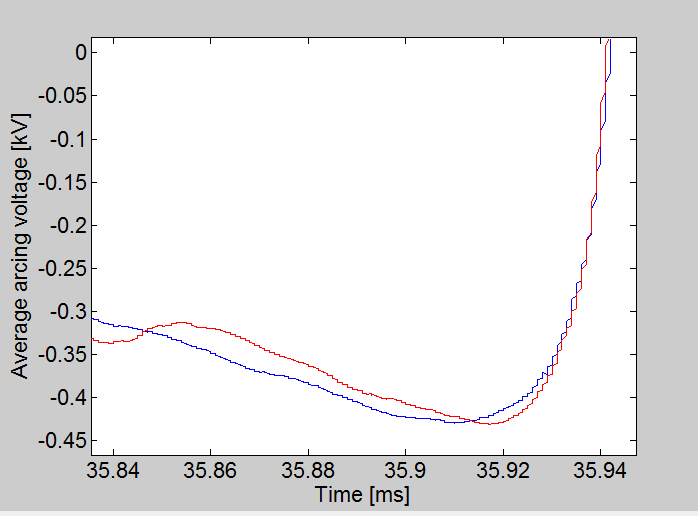
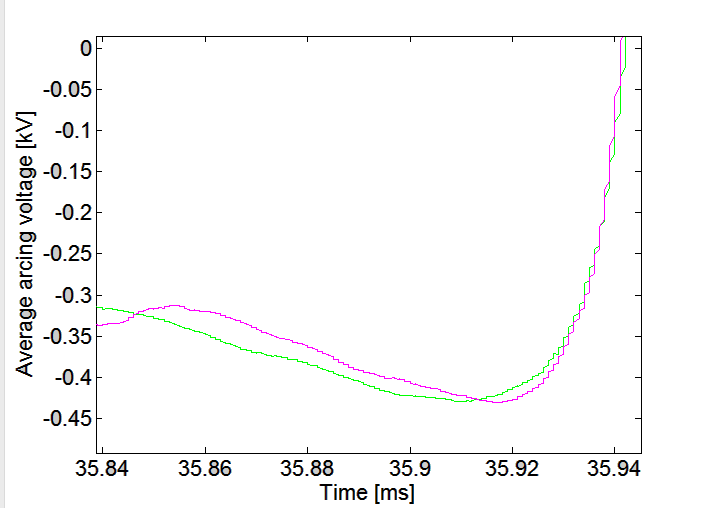
førsteutkast 75 mm arcing voltage

diff --git a/Dokument/masteroppgave.tex b/Dokument/masteroppgave.tex
@@ -776,9 +776,9 @@ In figure \ref{fig:results880AgeoC}, the total interruption success rate for the
 
 \subsubsection{Comparison of test results for geometry \textbf{c} and geometry \textbf{d}}
 
-As stated in section \ref{sec:testSwitchandContact} geometry \textbf{c} is going to be compared to a previously tested geometry, denoted \textbf{d}. Geometry \textbf{d} was tested by Nina Sasaki Aanensen and the results was published in the article: "Air flow investigation for a medium voltage load break switch" \cite{bib:AFIMVLBA} (In this article geometry \textbf{d} was denoted as geometry \textbf{a}). However, it seems beneficial to the reader to compare the previously tested geometry \textbf{d} to geometry \textit{c} in the same figure. Therefore, a comparison of the total interruption success rate for geometry \textbf{c} to the previously tested geometry \textbf{d} are shown in figure \ref{fig:compgeoCandDAllcurrents}.
+As stated in section \ref{sec:testSwitchandContact} geometry \textbf{c} is going to be compared to a previously tested geometry, denoted \textbf{d}. Geometry \textbf{d} was tested by Nina Sasaki Aanensen and the results was published in the article: "Air flow investigation for a medium voltage load break switch" \cite{bib:AFIMVLBA} (In that article geometry \textbf{d} was denoted as geometry \textbf{a}). However, it seems beneficial to the reader to present the results from the previously tested geometry \textbf{d} to geometry \textbf{c} in the same figure. Therefore, a comparison of the total interruption success rate for geometry \textbf{c} to the previously tested geometry \textbf{d} are shown in figure \ref{fig:compgeoCandDAllcurrents}.
 
-Figure \ref{fig:compgeoCandDAllcurrents} illustrates that geometry \textbf{d} performed better than geometry \textbf{c} for the 630 A interruption tests. Geometry \textbf{d} interrupted all the tests at 0.3 bar over-pressure, while geometry \textbf{c} had a 100 \% interruption success rate at 0.4 bar over-pressure at 630 A. Geometry \textbf{c} had none successful interruptions at 0.25 bar over-pressure, while geometry \textbf{d} had 0 \% success rate at 0.2 bar over-pressure. The 50 \% interruption success rate for geometry \textbf{c} was at an over-pressure of approximately 0.28 bar over-pressure. Geometry \textbf{d} had a 50 \% interruption success rate at approximately 0.26 bar over-pressure.
+Figure \ref{fig:compgeoCandDAllcurrents} shows that geometry \textbf{d} performed overall better than geometry \textbf{c} for the 630 A interruption tests. Geometry \textbf{d} interrupted all the tests at 0.3 bar over-pressure, while geometry \textbf{c} had a 100 \% interruption success rate at 0.4 bar over-pressure at 630 A. Geometry \textbf{c} had none successful interruptions at 0.25 bar over-pressure, while geometry \textbf{d} had a 0 \% interruption success rate at 0.2 bar over-pressure. The 50 \% interruption success rate for geometry \textbf{c} was at an over-pressure of approximately 0.28 bar over-pressure. Geometry \textbf{d} had a 50 \% interruption success rate at approximately 0.26 bar over-pressure.
 
 For the 880 A current interruption test, geometry \textbf{c} was considerably better than geometry \textbf{d}. Geometry \textbf{c} interrupted all the tests at 0.5 bar over-pressure, which was the same pressure level where geometry \textbf{d} failed all the interruptions. Geometry \textbf{d} had a 100 \% interruption success rate at 0.6 bar over-pressure, and a 50 \% interruption success rate at about 0.55 bar over-pressure. Where geometry \textbf{c} failed all the interruptions at 0.35 bar over-pressure and had a 50 \% interruption success rate at approximately 0.425 bar.
 
@@ -790,9 +790,9 @@ For the 880 A current interruption test, geometry \textbf{c} was considerably be
 
 \newpage
 \subsection{Arcing voltage}
-For geometry \textbf{c} the arcing voltage was monitored during the 630 A interruption tests at an over-pressure of 0.3 bar to see if a difference in arcing voltage could be observed between successful and unsuccessful interruptions. Two test series where conducted, one where the second CZ occurred when the pin's position was at approximately x=75 mm. The data collected for the second test where collected when the pin was inside the nozzle at approximately x=18 mm. The data presented in this section has been processed in matlab, where the arcing voltage has been smoothed to remove measuring noise and aligned so that the CZ occurs at the same time for all the collected data in a test. 
+For geometry \textbf{c} the arcing voltage was monitored and stored during the 630 A interruption tests at an over-pressure of 0.3 bar to see if a difference in arcing voltage could be observed between successful and unsuccessful interruptions. Two test series where conducted, one where the second CZ occurred when the pin's position was at approximately x=75 mm and one where performed when the pin was inside the nozzle at approximately x=18 mm. The data presented in this section has been processed in matlab, where the arcing voltage has been smoothed to remove measuring noise and aligned so that the CZ occurs at the same time for all the collected arcing voltages in a test series. 
 
-For the test series with a second CZ at x=75 mm, nine interruption tests where performed in total. Five tests had a thermal re-ignition, and four tests successfully interrupted at the CZ. As described in section \ref{sec:staticArcVoltage} the length of the arc influences the arcing voltage, therefore interruption attempts that was not in the area of interest (x=75 $\pm$ 3 mm) were discard. Even though many tests where conducted, five successful interruptions in the region of interests was not obtained. This resulted in that only four successful interruptions where included in the data for the x=75 mm arcing voltage test.
+For the test series with a second CZ at x=75 mm, nine interruption tests where performed in total. Five tests had a thermal re-ignition, and four tests successfully interrupted at the second CZ. As described in section \ref{sec:staticArcVoltage} the length of the arc influences the arcing voltage, therefore interruption attempts that was not in the area of interest (x=75 $\pm$ 3 mm) were discard. Even though many tests where conducted, five successful interruptions in the region of interests was not obtained. This resulted in that only four successful interruptions where included in the data for the x=75 mm arcing voltage test.
 
 In figure \ref{fig:75mmUnSuccessful} the arcing voltage for five interruption tests at 0.3 bar over-pressure and a current of 630 A is shown. All the five tests experienced a thermal re-ignition at the second CZ, which occurred at approximately  x=75 mm. The four successful interruptions is displayed in figure \ref{fig:75mmSuccessful}. As argued in section \ref{sec:TherMalReConsid} it is the last 100 $\mu$s before the CZ that it the most crucial if a thermal re-ignition is to be avoided. Therefore, the plots shown in the figures below consists of this time span. 
 
@@ -808,7 +808,26 @@ In figure \ref{fig:75mmUnSuccessful} the arcing voltage for five interruption te
 \caption{The arcing voltage for four interruption tests at 0.3 bar over-pressure and a current of 630 A. All the four tests where interrupted successfully at the second CZ, which occurred at approximately  x=75 mm.} \label{fig:75mmSuccessful}
 \end{figure}
 
-\subsubsection{Comparison}
+Based on the results presented in figure \ref{fig:75mmUnSuccessful} and \ref{fig:75mmSuccessful}, the average arcing voltage for the two data series was calculated and presented in figure \ref{fig:75mmUnSuccessful_ave} and \ref{fig:75mmSuccessful_ave}. The two interruption tests from each of the data sets which had a arcing voltage that varied the most from the average arcing voltage is plotted together with the arcing voltage. The average arcing voltage is represented with a blue line, while the interruption test with the lowest arcing voltage is plotted with a red line. The green line represent the interruption test with the highest arcing voltage. In figure \ref{fig:75mm_both_ave} the two arcing voltages are plotted together. The green line is the average arcing voltage where an thermal re-ignition occurred, while magenta line is the average arcing voltage for the successful interruption.
+
+\begin{figure}[H]
+\centering
+\includegraphics[scale=0.6, angle =0 ]{Bilder/Results/ArcingVoltage_75_reIgnition_average.png}
+\caption{The average arcing voltage (blue line) for the five interruption tests at 0.3 bar over-pressure and a current of 630 A, together with the lowest (red line) and highest (blue line) arcing voltages obtained during testing. All the five tests experienced a thermal re-ignition at the second CZ, which occurred at approximately  x=75 mm.} \label{fig:75mmUnSuccessful_ave}
+\end{figure}
+
+\begin{figure}[H]
+\centering
+\includegraphics[scale=0.6, angle =0 ]{Bilder/Results/ArcingVoltage_75_none_reIgnition_average.png}
+\caption{The average arcing voltage (blue line) for the four interruption tests at 0.3 bar over-pressure and a current of 630 A, together with the lowest (red line) and highest (blue line) arcing voltages obtained during testing.. All the four tests where interrupted successfully at the second CZ, which occurred at approximately  x=75 mm.} \label{fig:75mmSuccessful_ave}
+\end{figure}
+
+\begin{figure}[H]
+\centering
+\includegraphics[scale=0.6, angle =0 ]{Bilder/Results/ArcingVoltage_75_both_average.png}
+\caption{The average arcing voltage (blue line) for the four interruption tests at 0.3 bar over-pressure and a current of 630 A, together with the lowest (red line) and highest (blue line) arcing voltages obtained during testing.. All the four tests where interrupted successfully at the second CZ, which occurred at approximately  x=75 mm.} \label{fig:75mm_both_ave}
+\end{figure}
+
 \subsubsection{Dielectric re-ignition} \label{sec:dielectricReIgnitionResults}
 
 

diff --git a/Resultater/arbeidsmappe - resultater/75mm630A/sortVoltage.m b/Resultater/arbeidsmappe - resultater/75mm630A/sortVoltage.m
@@ -513,10 +513,10 @@ for i=1:length(average_Output_OK)
 end
 testTimeAve=testTime+6.700000000000062e-02+4e-3;
 figure(5);
-plot(testTime,average_Output_2,'b');
+plot(testTime,average_Output_2,'g');
 xlabel('Time [ms]');
 ylabel('Average arcing voltage [kV]');
 disp('Plotting voltage average: OK!');
 hold on
-plot(testTimeAve,average_Output_OK,'r');
+plot(testTimeAve,average_Output_OK,'m');
 disp('END');
